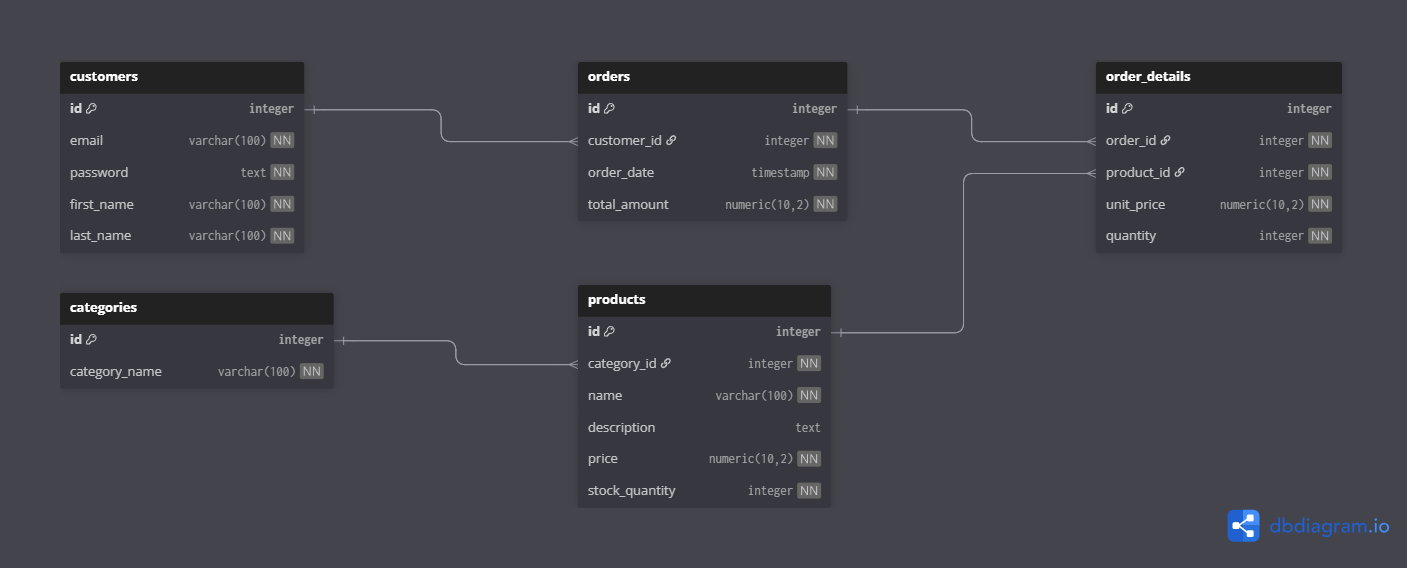
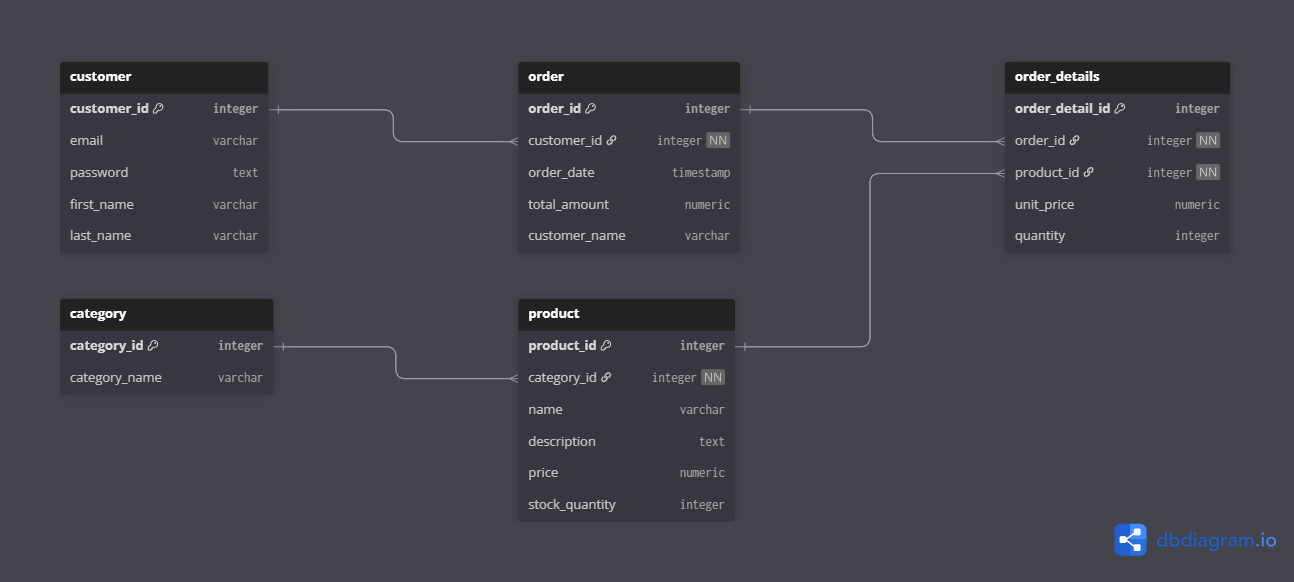
improve schema writing

diff --git a/README.md b/README.md
@@ -6,10 +6,10 @@ This document describes the database schema, entity relationships, and example a
 
 ## 1. Database Schema
 
-### customers
+### Customer
 ```sql
-CREATE TABLE customers (
-    id SERIAL PRIMARY KEY,
+CREATE TABLE customer (
+    customer_id SERIAL PRIMARY KEY,
     email VARCHAR(100) NOT NULL UNIQUE,
     password TEXT NOT NULL,
     first_name VARCHAR(100) NOT NULL,
@@ -17,18 +17,18 @@ CREATE TABLE customers (
 );
 ```
 
-### categories
+### Category
 ```sql
-CREATE TABLE categories (
-    id SERIAL PRIMARY KEY,
+CREATE TABLE category (
+    category_id SERIAL PRIMARY KEY,
     category_name VARCHAR(100) NOT NULL UNIQUE
 );
 ```
 
-### products
+### Product
 ```sql
-CREATE TABLE products (
-    id SERIAL PRIMARY KEY,
+CREATE TABLE product (
+    product_id SERIAL PRIMARY KEY,
     category_id INTEGER NOT NULL REFERENCES categories(id) ON DELETE CASCADE,
     name VARCHAR(100) NOT NULL,
     description TEXT,
@@ -37,10 +37,10 @@ CREATE TABLE products (
 );
 ```
 
-### orders
+### Order
 ```sql
-CREATE TABLE orders (
-    id SERIAL PRIMARY KEY,
+CREATE TABLE order (
+    order_id SERIAL PRIMARY KEY,
     customer_id INTEGER NOT NULL REFERENCES customers(id) ON DELETE CASCADE,
     order_date TIMESTAMP NOT NULL DEFAULT NOW(),
     total_amount NUMERIC(10, 2) NOT NULL,
@@ -48,10 +48,10 @@ CREATE TABLE orders (
 );
 ```
 
-### order_details
+### Order Details
 ```sql
 CREATE TABLE order_details (
-    id SERIAL PRIMARY KEY,
+    order_detail_id SERIAL PRIMARY KEY,
     order_id INTEGER NOT NULL REFERENCES orders(id) ON DELETE CASCADE,
     product_id INTEGER NOT NULL REFERENCES products(id) ON DELETE CASCADE,
     unit_price NUMERIC(10, 2) NOT NULL,
@@ -65,10 +65,11 @@ CREATE TABLE order_details (
 
 | Parent     | Child         | Relationship | Foreign Key              |
 | ---------- | ------------- | ------------ | ------------------------ |
-| customers  | orders        | 1 : M        | orders.customer_id       |
-| categories | products      | 1 : M        | products.category_id     |
+| customers  | order         | 1 : M        | orders.customer_id       |
+| categories | product       | 1 : M        | products.category_id     |
 | orders     | order_details | 1 : M        | order_details.order_id   |
 | products   | order_details | 1 : M        | order_details.product_id |
+|            |               |              |                          |
 
 ---
 
@@ -76,13 +77,16 @@ CREATE TABLE order_details (
 ![ERD Diagram](erd_diagram.png)
 
 ---
-
 ## 4. Analytical SQL Queries
-This section includes useful SQL queries for getting insights from the e-commerce data. These examples show how to check daily revenue, find top-selling products, and see which customers spent the most in a given period.
+
+This section includes useful SQL queries for getting insights from the e-commerce data. These examples show how to check daily revenue, find top-selling products, and identify high-value customers.
+
+---
 
 ### 4.1 Daily Revenue Report
+
 ```sql
-SELECT 
+SELECT
     DATE(order_date) AS report_date,
     SUM(total_amount) AS total_revenue
 FROM orders
@@ -90,36 +94,45 @@ WHERE DATE(order_date) = DATE '2025-01-18'
 GROUP BY DATE(order_date);
 ```
 
+---
+
 ### 4.2 Top-Selling Products in a Month
+
 ```sql
 SELECT
-    p.id AS product_id,
+    p.product_id,
     p.name AS product_name,
     SUM(od.unit_price * od.quantity) AS total_revenue
 FROM order_details od
-JOIN orders o ON od.order_id = o.id
-JOIN products p ON od.product_id = p.id
+JOIN orders o ON od.order_id = o.order_id
+JOIN products p ON od.product_id = p.product_id
 WHERE DATE_TRUNC('month', o.order_date) = DATE_TRUNC('month', DATE '2025-01-01')
-GROUP BY p.id, p.name
+GROUP BY p.product_id, p.name
 ORDER BY total_revenue DESC
 LIMIT 3;
 ```
 
+---
+
 ### 4.3 Customers Who Spent More Than 500 in a Month
+
 ```sql
 SELECT
-    c.id AS customer_id,
+    c.customer_id,
     CONCAT(c.first_name, ' ', c.last_name) AS customer_name,
     SUM(o.total_amount) AS total_spent
 FROM customers c
-JOIN orders o ON o.customer_id = c.id
-WHERE DATE_TRUNC('month', o.order_date) = DATE '2025-01-01'
-GROUP BY c.id, customer_name
+JOIN orders o ON o.customer_id = c.customer_id
+WHERE DATE_TRUNC('month', o.order_date) = DATE_TRUNC('month', DATE '2025-01-01')
+GROUP BY c.customer_id, customer_name
 HAVING SUM(o.total_amount) > 500
 ORDER BY total_spent DESC;
 ```
 
-### 4.4 Search for products containing the word `camera` in either the product name or description
+---
+
+### 4.4 Search for Products Containing the Word `camera`
+
 ```sql
 SELECT *
 FROM products
@@ -127,20 +140,26 @@ WHERE name ILIKE '%camera%'
    OR description ILIKE '%camera%';
 ```
 
-### 4.5 Suggest popular products from the same category by the same author, excluding the selected product
+---
+
+### 4.5 Suggest Popular Products From the Same Category, Excluding the Selected Product
+
 ```sql
 SELECT *
 FROM products
 WHERE category_id = <category_id>
-  AND id != <product_id>; 
+  AND product_id != <product_id>
+ORDER BY stock_quantity DESC
+LIMIT 5;
 ```
+
 ---
 
 ## 5. Denormalization Notes
 The `orders` table includes a denormalized `customer_name` column.  
 This stores the customer's full name at the time of order creation.  
 ```sql
-ALTER TABLE orders
+ALTER TABLE order
 ADD COLUMN customer_name VARCHAR(200);
 ```
 
